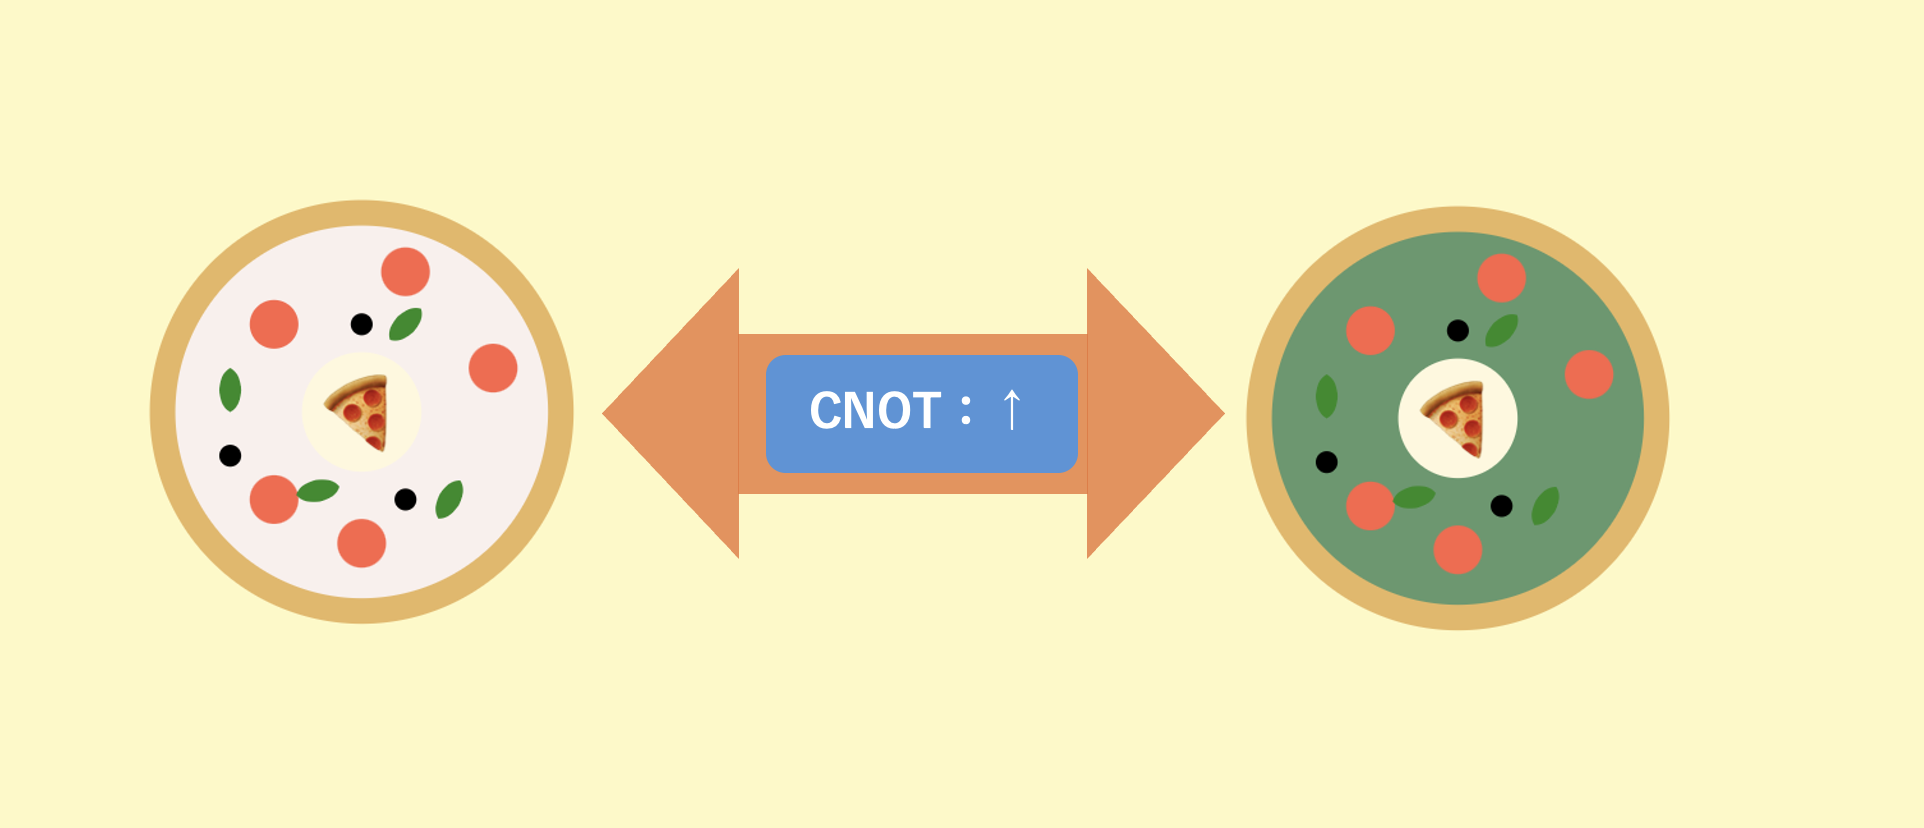
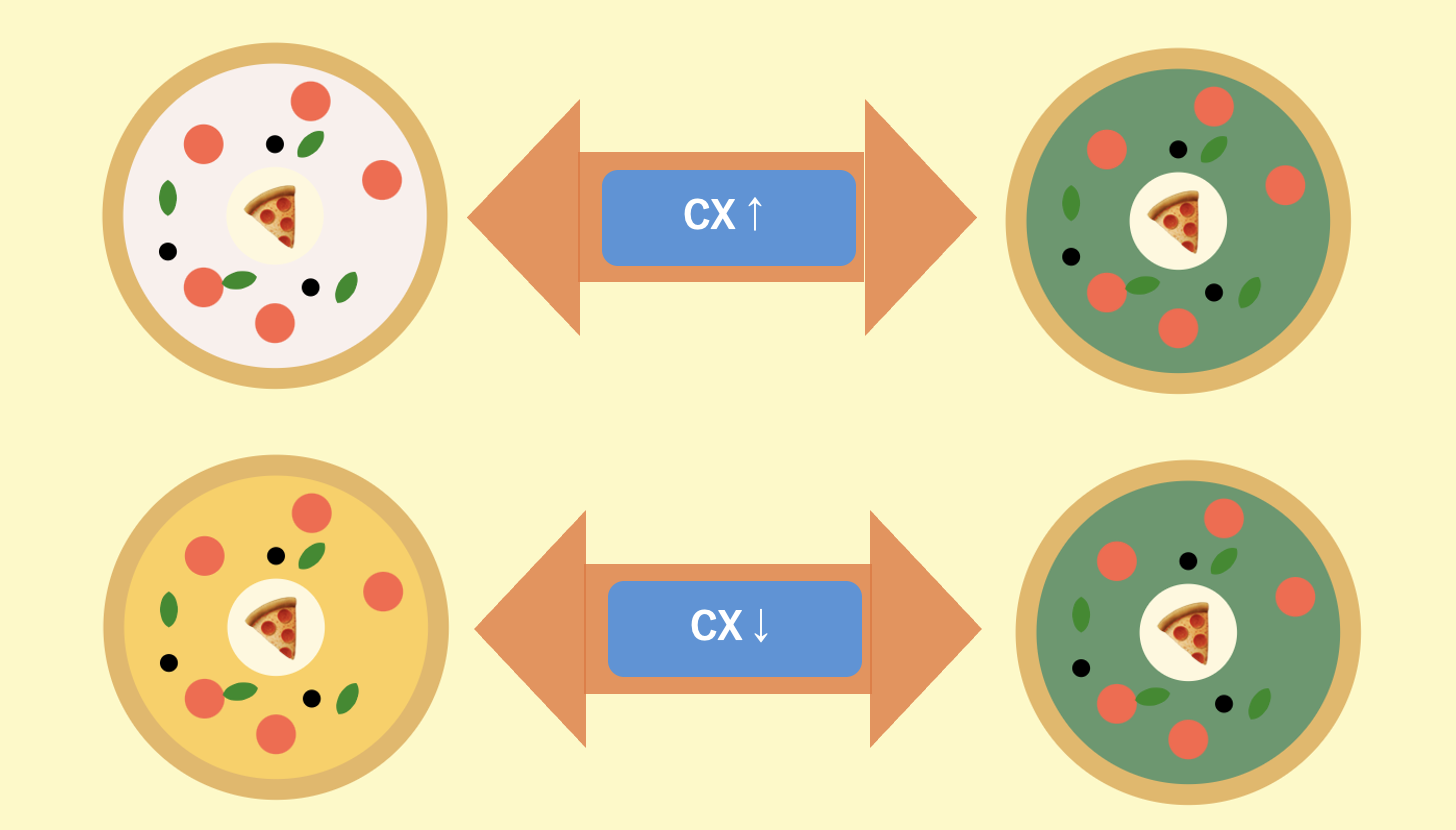
revise figures

diff --git a/src/components/QuantumPizzaGame_lv4.js b/src/components/QuantumPizzaGame_lv4.js
@@ -407,7 +407,8 @@ const QuantumPizzaGame_lv4 = () => {
               <p class="xgate-description">
                 CXゲートは量子コンピューティングにおいてとても重要な量子ゲートです。<br>
                 CX：「↑」かCX：「↓」かで動きが変わります。<br><br>
-                CX：「↑」の場合、ホワイトソース🥛とバジル🌿を入れ替えます。
+                CX：「↑」の場合、ホワイトソース🥛とバジル🌿を入れ替えます。 <br>
+                CX：「↓」の場合、チーズ🧀とバジル🌿を入れ替えます。
               </p>
               <div class="xgate-image-container" style="display: flex; justify-content: center;">
                 <img src="/bell_image_1.png" alt="Xゲート" class="xgate-image" style="width: 60%; max-width: 100%; height: auto;" />
@@ -447,7 +448,8 @@ const QuantumPizzaGame_lv4 = () => {
                 <div class="xgate-explanation">
                   <hr >
                   <p class="xgate-description">
-                    CNOT：「↓」の場合、チーズ🧀とバジル🌿を入れ替えます。
+                    先にHゲートを使ってハーフ&ハーフを作り、<br>
+                    その後に適切なCXゲートを使って具材を入れ替えます。<br>
                   </p>
                   <div class="xgate-image-container" style="display: flex; justify-content: center;">
                     <img src="/bell_image_2.png" alt="Xゲート" class="xgate-image" style="width: 70%; max-width: 100%; height: auto;" />
@@ -473,7 +475,7 @@ const QuantumPizzaGame_lv4 = () => {
                   popup: "my-swal-popup",
                   title: "my-swal-title",
                   htmlContainer: "my-swal-html",
-                  confirmButton: "my-swal-confirm-button-next",
+                  confirmButton: "my-swal-confirm-button-next-center",
                 },
                 // buttonsStyling: false,
                 width: "70%",

diff --git a/src/components/GameRule.js b/src/components/GameRule.js
@@ -4,6 +4,7 @@ import { Goal, Target, Gift, Gamepad2 } from "lucide-react";
 // 各言語でのテキストを定義
 const texts = {
   ja: {
+    imagePath: "./game_rule_ja.png",
     gameTitle: "このゲームのルール",
     gameGoal: "ゲームの目的",
     goalDescription:
@@ -23,6 +24,7 @@ const texts = {
     startGame: "ゲームを始める",
   },
   en: {
+    imagePath: "./game_rule_en.png",
     gameTitle: "Game Rules",
     gameGoal: "Game Goal",
     goalDescription:
@@ -41,6 +43,7 @@ const texts = {
     startGame: "Start Game",
   },
   zh: {
+    imagePath: "./game_rule_zh.png",
     gameTitle: "游戏规则",
     gameGoal: "游戏目标",
     goalDescription: "使用量子门来调整比萨饼，使其与右上角显示的目标相匹配。",
@@ -57,7 +60,6 @@ const texts = {
     startGame: "开始游戏",
   },
 };
-
 
 const lanSet = { ja: "日本語", en: "English", zh: "中文" };
 
@@ -101,7 +103,7 @@ const GameRule = () => {
           </h2>
 
           <img
-            src="./game_image_4.png"
+            src={text.imagePath}
             style={{
               width: "35%",
               position: "absolute",

diff --git a/src/components/Congrats.js b/src/components/Congrats.js
@@ -72,6 +72,8 @@ const Congrats = () => {
                 体験<rt>たいけん</rt>
               </ruby>
               してみてね！
+              <br></br>
+              プレイしてくださり、ありがとうございました！😆
             </p>
             <div className="flex justify-center space-x-4">
               <motion.a
@@ -80,7 +82,7 @@ const Congrats = () => {
                 whileTap={{ scale: 0.95 }}
                 className="bg-green-500 hover:bg-green-600 text-white font-bold py-2 px-4 rounded-full flex items-center"
               >
-                <House className="mr-2" />
+                <House className="mr-2 w-10 h-7" />
                 ホームに戻る
               </motion.a>
             </div>

diff --git a/src/components/QuantumPizzaGame_lv2.js b/src/components/QuantumPizzaGame_lv2.js
@@ -204,12 +204,12 @@ const QuantumCircuit = ({ circuit, addGate }) => {
         >
           H
         </button>
-        {/* <button
+        <button
           className="bg-blue-500 hover:bg-blue-700 text-white font-bold py-2 px-4 rounded"
           onClick={() => addGate("X")}
         >
           X
-        </button> */}
+        </button>
       </div>
     </div>
   );

diff --git a/src/stylesheets/QuantumPizzaGame.css b/src/stylesheets/QuantumPizzaGame.css
@@ -193,6 +193,15 @@ h3 {
     padding: 10px 20px;
     margin-left: 40px;
   }
+
+  .my-swal-confirm-button-next-center{
+    background-color: #10e36b !important;
+    color: white;
+    border-radius: 5px;
+    font-weight: bold;
+    padding: 10px 20px;
+
+  }
   
   .my-swal-cancel-button {
     background-color: #e74c3c !important;
